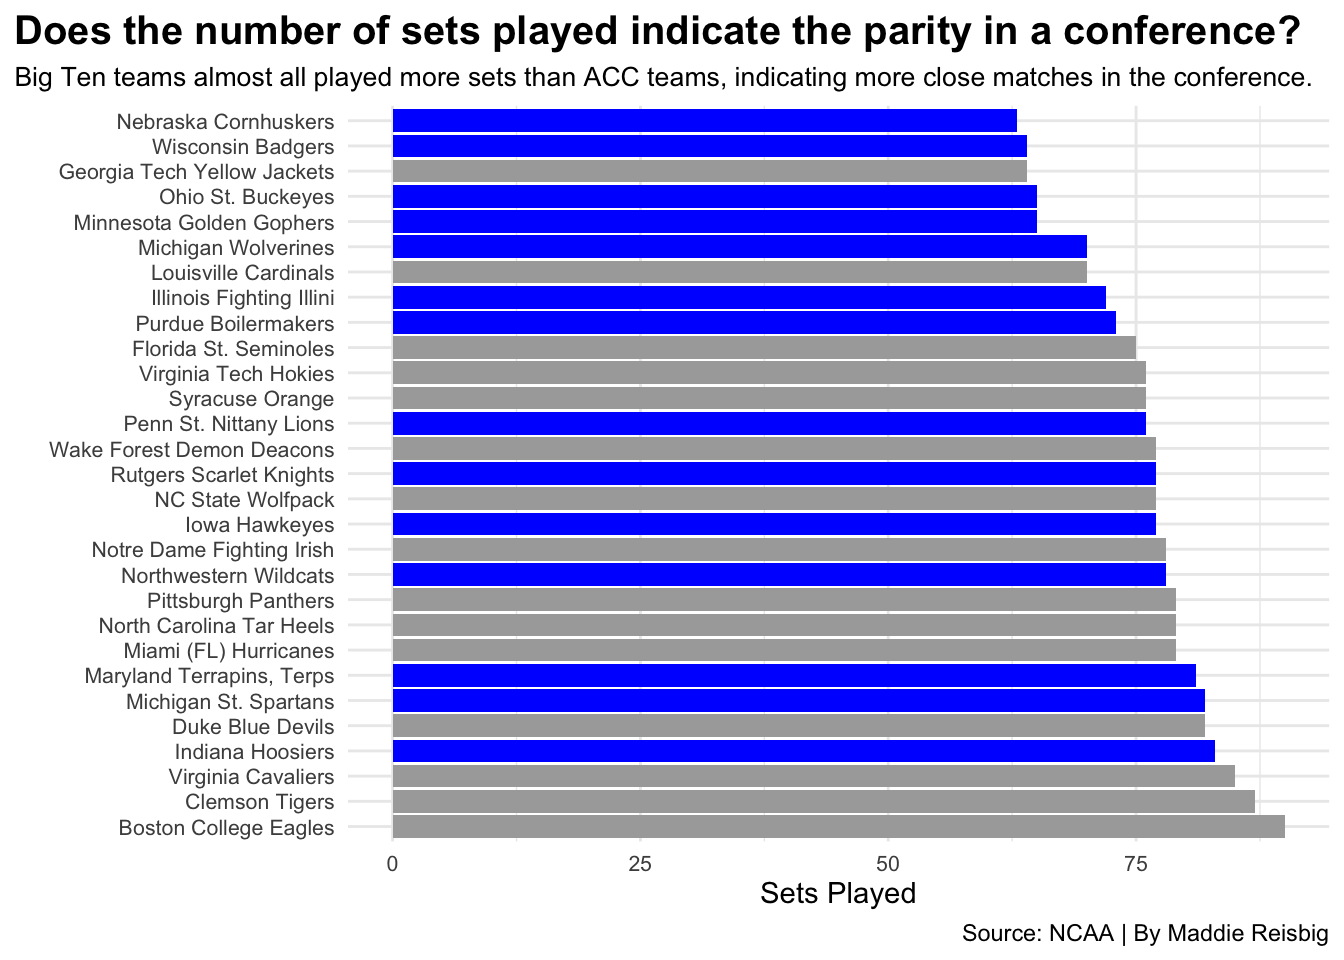
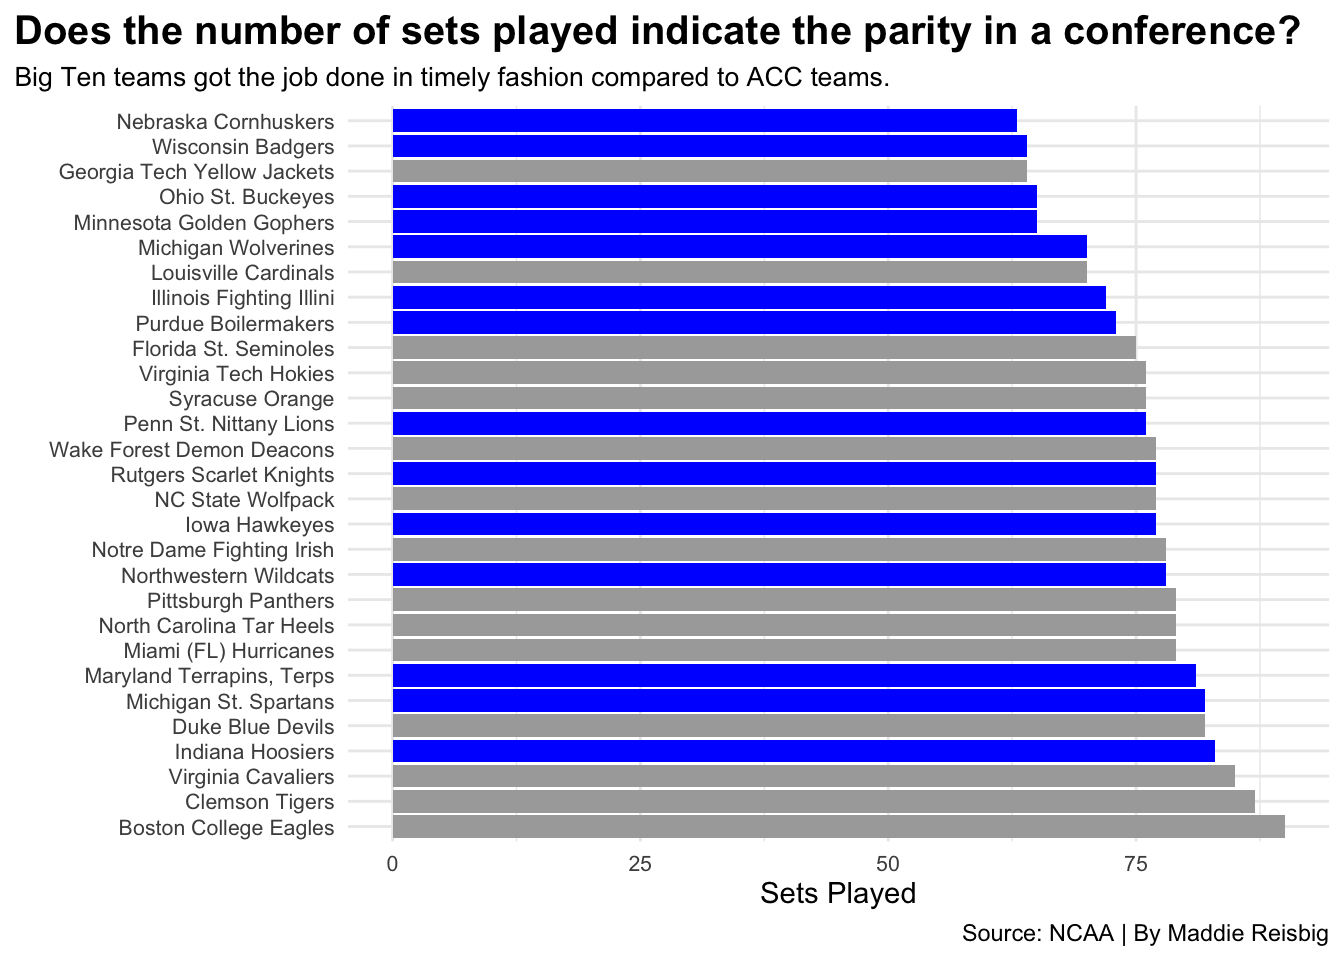
fixed

Changed region(s): [[0.1562, 0.0625, 0.9688, 0.0938]]

diff --git a/posts/big-ten-and-acc-volleyball/index.html b/posts/big-ten-and-acc-volleyball/index.html
@@ -280,7 +280,7 @@ code span.wa { color: #60a0b0; font-weight: bold; font-style: italic; } /* Warni
 <span id="cb1-66"><a href="#cb1-66" aria-hidden="true" tabindex="-1"></a>  <span class="at">x=</span><span class="st">""</span>,</span>
 <span id="cb1-67"><a href="#cb1-67" aria-hidden="true" tabindex="-1"></a>    <span class="at">y=</span><span class="st">"Sets Played"</span>, </span>
 <span id="cb1-68"><a href="#cb1-68" aria-hidden="true" tabindex="-1"></a>    <span class="at">title=</span><span class="st">"Does the number of sets played indicate the parity in a conference?"</span>, </span>
-<span id="cb1-69"><a href="#cb1-69" aria-hidden="true" tabindex="-1"></a>    <span class="at">subtitle=</span><span class="st">"Big Ten teams almost all played more sets than ACC teams, indicating more close matches in the conference."</span>,</span>
+<span id="cb1-69"><a href="#cb1-69" aria-hidden="true" tabindex="-1"></a>    <span class="at">subtitle=</span><span class="st">"Big Ten teams got the job done in timely fashion compared to ACC teams."</span>,</span>
 <span id="cb1-70"><a href="#cb1-70" aria-hidden="true" tabindex="-1"></a>    <span class="at">caption=</span><span class="st">"Source: NCAA | By Maddie Reisbig"</span></span>
 <span id="cb1-71"><a href="#cb1-71" aria-hidden="true" tabindex="-1"></a>    ) <span class="sc">+</span></span>
 <span id="cb1-72"><a href="#cb1-72" aria-hidden="true" tabindex="-1"></a>      <span class="fu">theme_minimal</span>() <span class="sc">+</span> </span>
@@ -382,9 +382,9 @@ code span.wa { color: #60a0b0; font-weight: bold; font-style: italic; } /* Warni
 <span id="cb3-47"><a href="#cb3-47" aria-hidden="true" tabindex="-1"></a>    <span class="fu">aes</span>(<span class="at">x=</span>team, <span class="at">y=</span>digsperset, <span class="at">label=</span>full_name)) <span class="sc">+</span></span>
 <span id="cb3-48"><a href="#cb3-48" aria-hidden="true" tabindex="-1"></a>  <span class="fu">labs</span>(</span>
 <span id="cb3-49"><a href="#cb3-49" aria-hidden="true" tabindex="-1"></a>  <span class="at">x=</span><span class="st">"Team"</span>,</span>
-<span id="cb3-50"><a href="#cb3-50" aria-hidden="true" tabindex="-1"></a>    <span class="at">y=</span><span class="st">"digsperset"</span>, </span>
+<span id="cb3-50"><a href="#cb3-50" aria-hidden="true" tabindex="-1"></a>    <span class="at">y=</span><span class="st">"Digs Per Set"</span>, </span>
 <span id="cb3-51"><a href="#cb3-51" aria-hidden="true" tabindex="-1"></a>    <span class="at">title=</span><span class="st">"The Big Ten averages more digs per set, indicating longer rallies."</span>, </span>
-<span id="cb3-52"><a href="#cb3-52" aria-hidden="true" tabindex="-1"></a>    <span class="at">subtitle=</span><span class="st">"The top liberos in the Big Ten are still averaging more digsperset despite the tougher competition."</span>,</span>
+<span id="cb3-52"><a href="#cb3-52" aria-hidden="true" tabindex="-1"></a>    <span class="at">subtitle=</span><span class="st">"The top liberos in the Big Ten are still averaging more digs per set despite the tougher competition."</span>,</span>
 <span id="cb3-53"><a href="#cb3-53" aria-hidden="true" tabindex="-1"></a>    <span class="at">caption=</span><span class="st">"Source: NCAA | By Maddie Reisbig"</span></span>
 <span id="cb3-54"><a href="#cb3-54" aria-hidden="true" tabindex="-1"></a>    ) <span class="sc">+</span></span>
 <span id="cb3-55"><a href="#cb3-55" aria-hidden="true" tabindex="-1"></a>      <span class="fu">theme_minimal</span>() <span class="sc">+</span> </span>

diff --git a/index.html b/index.html
@@ -164,7 +164,7 @@ ul.task-list li input[type="checkbox"] {
 
 <div class="quarto-listing quarto-listing-container-default" id="listing-listing">
 <div class="list quarto-listing-default">
-<div class="quarto-post image-right" data-index="0" data-categories="bigten,acc,volleyball" data-listing-date-sort="1667710800000" data-listing-file-modified-sort="1667792665484" data-listing-reading-time-sort="9.45">
+<div class="quarto-post image-right" data-index="0" data-categories="bigten,acc,volleyball" data-listing-date-sort="1667710800000" data-listing-file-modified-sort="1667793195251" data-listing-reading-time-sort="9.45">
 <div class="thumbnail">
 <p><a href="./posts/big-ten-and-acc-volleyball/index.html"> <img src="./posts/big-ten-and-acc-volleyball/image.png" class="thumnail-image"> </a></p>
 </div>
